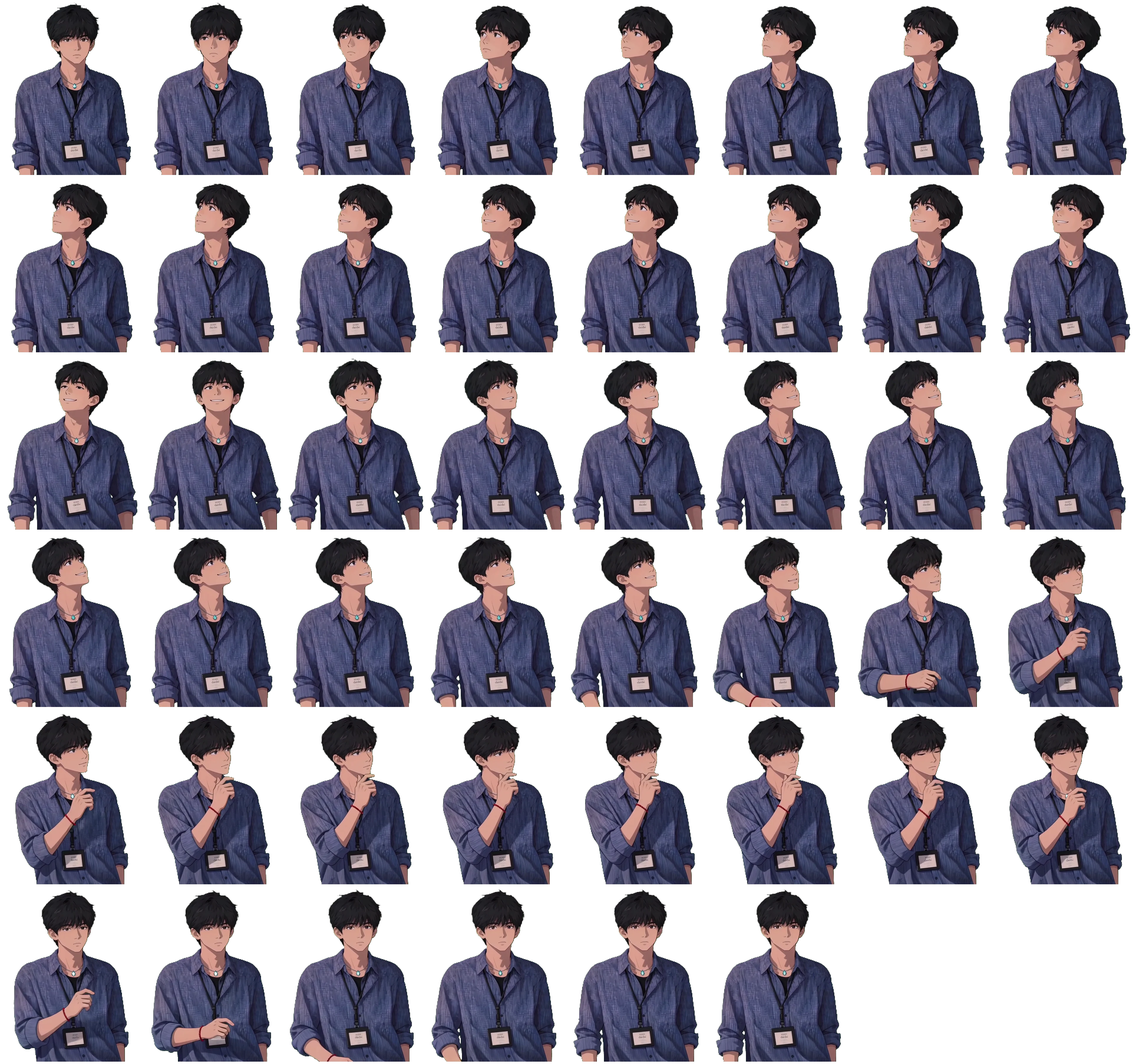
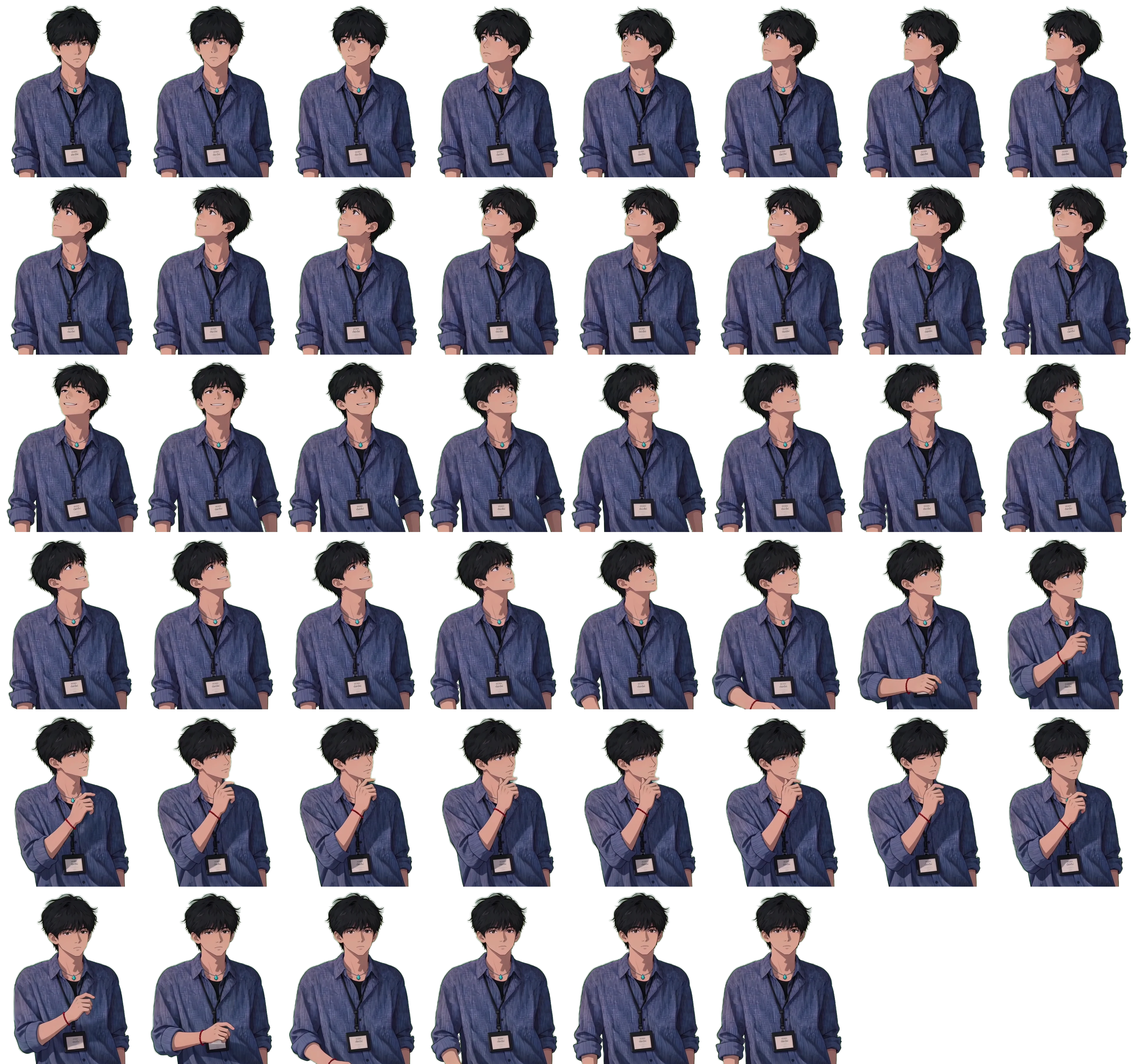
更新人物雪碧图-高清版本

Changed region(s): [[0.0, 0.0, 0.9959, 1.0]]

diff --git a/CODEBUDDY.md b/CODEBUDDY.md
@@ -287,6 +287,38 @@ cd motion/head-turn
 
 其他相关脚本：`chroma_key.py`（dominance-v2 抠色，**只用于离线**生成透明帧）、`loop_cleanup.py`（首尾接缝处理）。
 
+### 抠图环节的替代方案：RVM AI 抠图（2026-09-11 已装好并验证）
+
+用户反馈 chroma key（dominance-v2）的人物轮廓发糊。替代工具 **Robust Video Matting (RVM)**
+已安装在 `/home/vii/tool-github/RobustVideoMatting/`（独立 venv + CPU 版 torch，模型权重已下载，
+**不依赖 oil-motion 的 venv**）。完整使用文档：`/home/vii/tool-github/RobustVideoMatting/使用说明.md`。
+
+**工作流（绿幕视频 → 抠图 → 帧序列）：**
+
+```bash
+cd /home/vii/tool-github/RobustVideoMatting
+# 一步出全部带 alpha 的透明 PNG（despill 去绿镶边默认开启，绿幕素材别关）
+.venv/bin/python run_matting.py --input "temp/人物头部左右转动---添加项链.mp4" --outdir 输出目录
+```
+
+RVM 直接输出 `0001.png 0002.png …`（帧数 = 视频总帧数，带 RGBA alpha），
+**替代「切帧 + 去绿幕」两步**；产物可直接接 oil-motion 后续的选帧/裁切/打包。
+
+**可选参数：**
+
+| 参数 | 默认 | 说明 |
+|---|---|---|
+| `--variant` | `resnet50` | `resnet50` 质量高 / `mobilenetv3` 快约 3 倍 |
+| `--downsample-ratio` | 自动（720p→0.375，1080p→0.25） | 输入缩放比例，轮廓发虚时试 0.5 |
+| `--no-despill` | 关闭（即默认开 despill） | 仅非绿幕素材使用；绿幕素材关掉会出现绿镶边 |
+
+**性能**：CPU（无显卡）720p 约 2.8 帧/秒，121 帧全片约 45 秒。
+
+**注意事项：**
+- despill 是按「人物不含真实绿色」假设写的（当前素材蓝衬衫+黑发，安全）；换含绿色衣物的素材必须 `--no-despill` 并改用其他去溢色方案。
+- RVM 只改善**边缘质量**，不改善**源分辨率**：墨迹 586px 的模糊上限依然存在，不要指望换抠图工具解决整体发糊。
+- 当前状态（2026-09-11）：已安装、已跑通冒烟测试（对比图确认 despill 后边缘干净），**主流水线尚未切换**；用户确认后才替换 `chroma_key.py` 环节，切换后 `motion/` 的选帧/打包步骤不变。
+
 ### 图集容量的硬上限
 
 浏览器纹理单边上限 4096px，且运行时**只接受一张主图集**：
